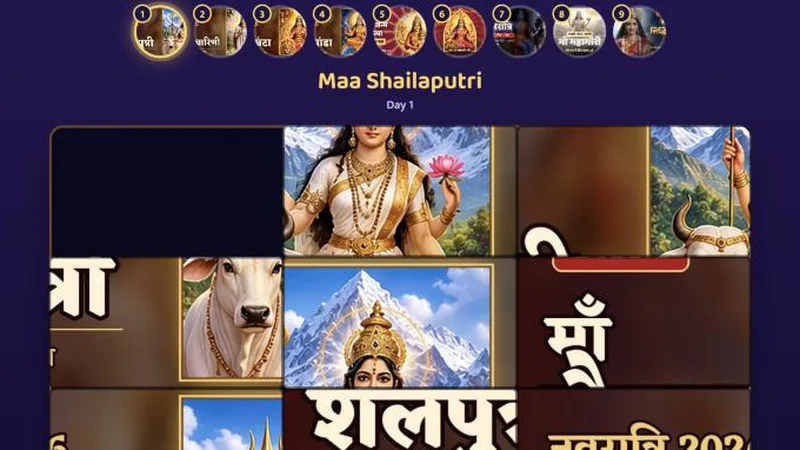
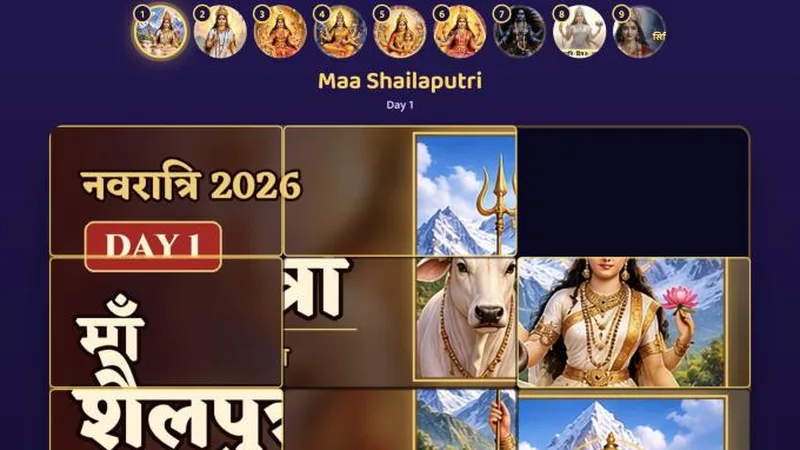
Dasara batch 1: real gameplay pictures for the game gallery
Claude-Session: https://claude.ai/code/session_01RFA7oXiTNBVC6gcLc2jwNa

diff --git a/game-info.js b/game-info.js
@@ -50,22 +50,22 @@ var G=[
   how:'Fly across India with Diya and play four mini-games (quiz, five days, across India and rangoli) to light all 24 diyas.',
   fact:'<b>Deepavali</b> means "a row of lamps" (deepa + avali). People in Ayodhya lit rows of lamps to welcome Shri Ram home.',
   learn:['Quiz','Indian festivals','Rangoli']},
- {id:'navadurga-match',cat:'dasara',tag:'Dasara · Start here',name:'Navadurga Match',href:'navadurga-match.html',img:'https://i.ytimg.com/vi/IlBi-hGGF9E/hqdefault.jpg',players:'1 player',gate:'navadurga-match',
+ {id:'navadurga-match',cat:'dasara',tag:'Dasara · Start here',name:'Navadurga Match',href:'navadurga-match.html',img:'img/games/navadurga-match.webp',players:'1 player',gate:'navadurga-match',
   hook:'Slide the pieces back together and meet all nine forms of Maa Durga!',
   how:'A storm has broken the pictures of the nine Devis into pieces. Tap a piece next to the empty space to slide it in, or tap one in the same row or column to slide a whole line. Finish all nine pictures. Easy 3 × 3 or hard 4 × 4.',
   fact:'Sliding puzzles became a craze in the <b>1880s</b>, when the "15 puzzle" swept America and Europe. Exactly half of all mixed-up boards can never be solved, so ours are always mixed with real moves.',
   learn:['Planning ahead','Visual memory','The nine Devis']},
- {id:'climb-himalaya',cat:'dasara',tag:'Dasara · Day 1',name:'Climb the Himalaya',href:'climb-himalaya.html',img:'https://i.ytimg.com/vi/T96jKddkIhw/hqdefault.jpg',players:'1 player',gate:'climb-himalaya',
+ {id:'climb-himalaya',cat:'dasara',tag:'Dasara · Day 1',name:'Climb the Himalaya',href:'climb-himalaya.html',img:'img/games/climb-himalaya.webp',players:'1 player',gate:'climb-himalaya',
   hook:'Bounce Diya up the snowy peaks to reach Maa Shailaputri!',
   how:'Diya bounces by herself. Hold your finger to her left or right to steer, or use the arrow keys. Ice ledges crack after one bounce and wooden ledges slide. Collect lotus flowers, pass three camps and reach the summit.',
   fact:'<b>Shailaputri</b> means "daughter of the mountain". The Himalaya, "home of snow" in Sanskrit, has the world\'s highest peaks, and it is still growing a few millimetres every year.',
   learn:['Hand–eye timing','Steady focus','Day 1 story']},
- {id:'japa-mala',cat:'dasara',tag:'Dasara · Day 2',name:'Japa Mala Beads',href:'japa-mala.html',img:'https://i.ytimg.com/vi/w82yu_nCdC8/hqdefault.jpg',players:'1 player',gate:'japa-mala',
+ {id:'japa-mala',cat:'dasara',tag:'Dasara · Day 2',name:'Japa Mala Beads',href:'japa-mala.html',img:'img/games/japa-mala.webp',players:'1 player',gate:'japa-mala',
   hook:'Watch the beads of the mala glow, then repeat the pattern!',
   how:"Eight big beads of Maa Brahmacharini's mala glow one by one, each with its own musical note (Sa Re Ga Ma Pa Dha Ni Sa). Touch them in the same order. Every round adds one bead. Ten rounds complete the tapasya.",
   fact:'A <b>japa mala</b> has <b>108</b> beads plus a guru bead called the <b>meru</b>. When you reach the meru you turn the mala around instead of crossing it.',
   learn:['Memory','Listening','Patience']},
- {id:'ring-the-bell',cat:'dasara',tag:'Dasara · Day 3',name:'Ring the Bell',href:'ring-the-bell.html',img:'https://i.ytimg.com/vi/lgTVdgoBnQ0/hqdefault.jpg',players:'1 player',gate:'ring-the-bell',
+ {id:'ring-the-bell',cat:'dasara',tag:'Dasara · Day 3',name:'Ring the Bell',href:'ring-the-bell.html',img:'img/games/ring-the-bell.webp',players:'1 player',gate:'ring-the-bell',
   hook:"Ring Maa Chandraghanta's moon bell and chase the shadows away!",
   how:'The temple bell swings by itself. Tap when it passes through the gold zone. Right in the middle is PERFECT and the sound wave clears every shadow. Keep the shadows away from the lamp for five levels.',
   fact:'<b>Chandraghanta</b> means "moon bell". Temple bells are cast from a mix of metals, so one ring keeps humming for several seconds. Ringing the bell before prayer fills the mind with that one sound and quiets other thoughts.',

diff --git a/jagruth-bharath/family-safety-check.html b/jagruth-bharath/family-safety-check.html
@@ -283,6 +283,6 @@ function show(el){
 new MutationObserver(function(){var el=document.querySelector(SEL);if(el&&!el.parentNode.querySelector('.flow-nx'))show(el)}).observe(document.body,{childList:true,subtree:true});
 })();
 </script>
-<script src="../game-info.js?v=2" data-game="jb-family-safety-check" defer></script>
+<script src="../game-info.js?v=3" data-game="jb-family-safety-check" defer></script>
 </body>
 </html>

diff --git a/jagruth-bharath/mr-promise-calling.html b/jagruth-bharath/mr-promise-calling.html
@@ -342,6 +342,6 @@ function show(el){
 new MutationObserver(function(){var el=document.querySelector(SEL);if(el&&!el.parentNode.querySelector('.flow-nx'))show(el)}).observe(document.body,{childList:true,subtree:true});
 })();
 </script>
-<script src="../game-info.js?v=2" data-game="jb-mr-promise-calling" defer></script>
+<script src="../game-info.js?v=3" data-game="jb-mr-promise-calling" defer></script>
 </body>
 </html>

diff --git a/index.html b/index.html
@@ -226,7 +226,7 @@ footer{color:var(--muted);font-size:14px;text-align:center;display:flex;flex-dir
 <canvas id="fx" aria-hidden="true"></canvas>
 <div class="pal" id="pal" aria-live="polite"><img src="img/diya_wave.png" alt="Diya"><div class="bubble" id="bubble"></div></div>
 
-<script src="game-info.js?v=2"></script>
+<script src="game-info.js?v=3"></script>
 <script>
 /* ===== content ===== */
 const DEEPAVALI = [

diff --git a/road-to-ayodhya.html b/road-to-ayodhya.html
@@ -462,6 +462,6 @@ relayout(); applyLang(); setup(); requestAnimationFrame(draw);
 <div class="wf-c">© 2026 World of Wonders Studio · Watch the story, play the game, learn together.</div>
 </div></footer>
 <script src="join.js?v=2" defer></script>
-<script src="game-info.js?v=2" data-game="road-to-ayodhya" defer></script>
+<script src="game-info.js?v=3" data-game="road-to-ayodhya" defer></script>
 </body>
 </html>

diff --git a/samudra-manthan.html b/samudra-manthan.html
@@ -426,6 +426,6 @@ layout(); applyLang(); start(); requestAnimationFrame(loop);
 <div class="wf-c">© 2026 World of Wonders Studio · Watch the story, play the game, learn together.</div>
 </div></footer>
 <script src="join.js?v=2" defer></script>
-<script src="game-info.js?v=2" data-game="samudra-manthan" defer></script>
+<script src="game-info.js?v=3" data-game="samudra-manthan" defer></script>
 </body>
 </html>

diff --git a/finale.html b/finale.html
@@ -505,5 +505,5 @@ $('go-music').onclick=()=>start(true);$('go-quiet').onclick=()=>start(false);
 <div class="wf-c">© 2026 World of Wonders Studio · Watch the story, play the game, learn together.</div>
 </div></footer>
 <script src="join.js?v=2" defer></script>
-<script src="game-info.js?v=2" data-game="finale" defer></script>
+<script src="game-info.js?v=3" data-game="finale" defer></script>
 </body></html>

diff --git a/jagruth-bharath/spot-the-scam.html b/jagruth-bharath/spot-the-scam.html
@@ -299,6 +299,6 @@ function show(el){
 new MutationObserver(function(){var el=document.querySelector(SEL);if(el&&!el.parentNode.querySelector('.flow-nx'))show(el)}).observe(document.body,{childList:true,subtree:true});
 })();
 </script>
-<script src="../game-info.js?v=2" data-game="jb-spot-the-scam" defer></script>
+<script src="../game-info.js?v=3" data-game="jb-spot-the-scam" defer></script>
 </body>
 </html>

diff --git a/yamuna-thali.html b/yamuna-thali.html
@@ -229,6 +229,6 @@ layout(); applyLang(); start(); requestAnimationFrame(loop);
 <div class="wf-c">© 2026 World of Wonders Studio · Watch the story, play the game, learn together.</div>
 </div></footer>
 <script src="join.js?v=2" defer></script>
-<script src="game-info.js?v=2" data-game="yamuna-thali" defer></script>
+<script src="game-info.js?v=3" data-game="yamuna-thali" defer></script>
 </body>
 </html>

diff --git a/catch-drops.html b/catch-drops.html
@@ -324,6 +324,6 @@ layout(); applyLang(); start(); requestAnimationFrame(loop);
 <div class="wf-c">© 2026 World of Wonders Studio · Watch the story, play the game, learn together.</div>
 </div></footer>
 <script src="join.js?v=2" defer></script>
-<script src="game-info.js?v=2" data-game="catch-drops" defer></script>
+<script src="game-info.js?v=3" data-game="catch-drops" defer></script>
 </body>
 </html>

diff --git a/navakankari.html b/navakankari.html
@@ -275,6 +275,6 @@ layout(); applyLang(); start(); requestAnimationFrame(loop);
 <div class="wf-c">© 2026 World of Wonders Studio · Watch the story, play the game, learn together.</div>
 </div></footer>
 <script src="join.js?v=2" defer></script>
-<script src="game-info.js?v=2" data-game="navakankari" defer></script>
+<script src="game-info.js?v=3" data-game="navakankari" defer></script>
 </body>
 </html>

diff --git a/pallanguzhi.html b/pallanguzhi.html
@@ -263,6 +263,6 @@ layout(); applyLang(); start(); requestAnimationFrame(loop);
 <div class="wf-c">© 2026 World of Wonders Studio · Watch the story, play the game, learn together.</div>
 </div></footer>
 <script src="join.js?v=2" defer></script>
-<script src="game-info.js?v=2" data-game="pallanguzhi" defer></script>
+<script src="game-info.js?v=3" data-game="pallanguzhi" defer></script>
 </body>
 </html>
